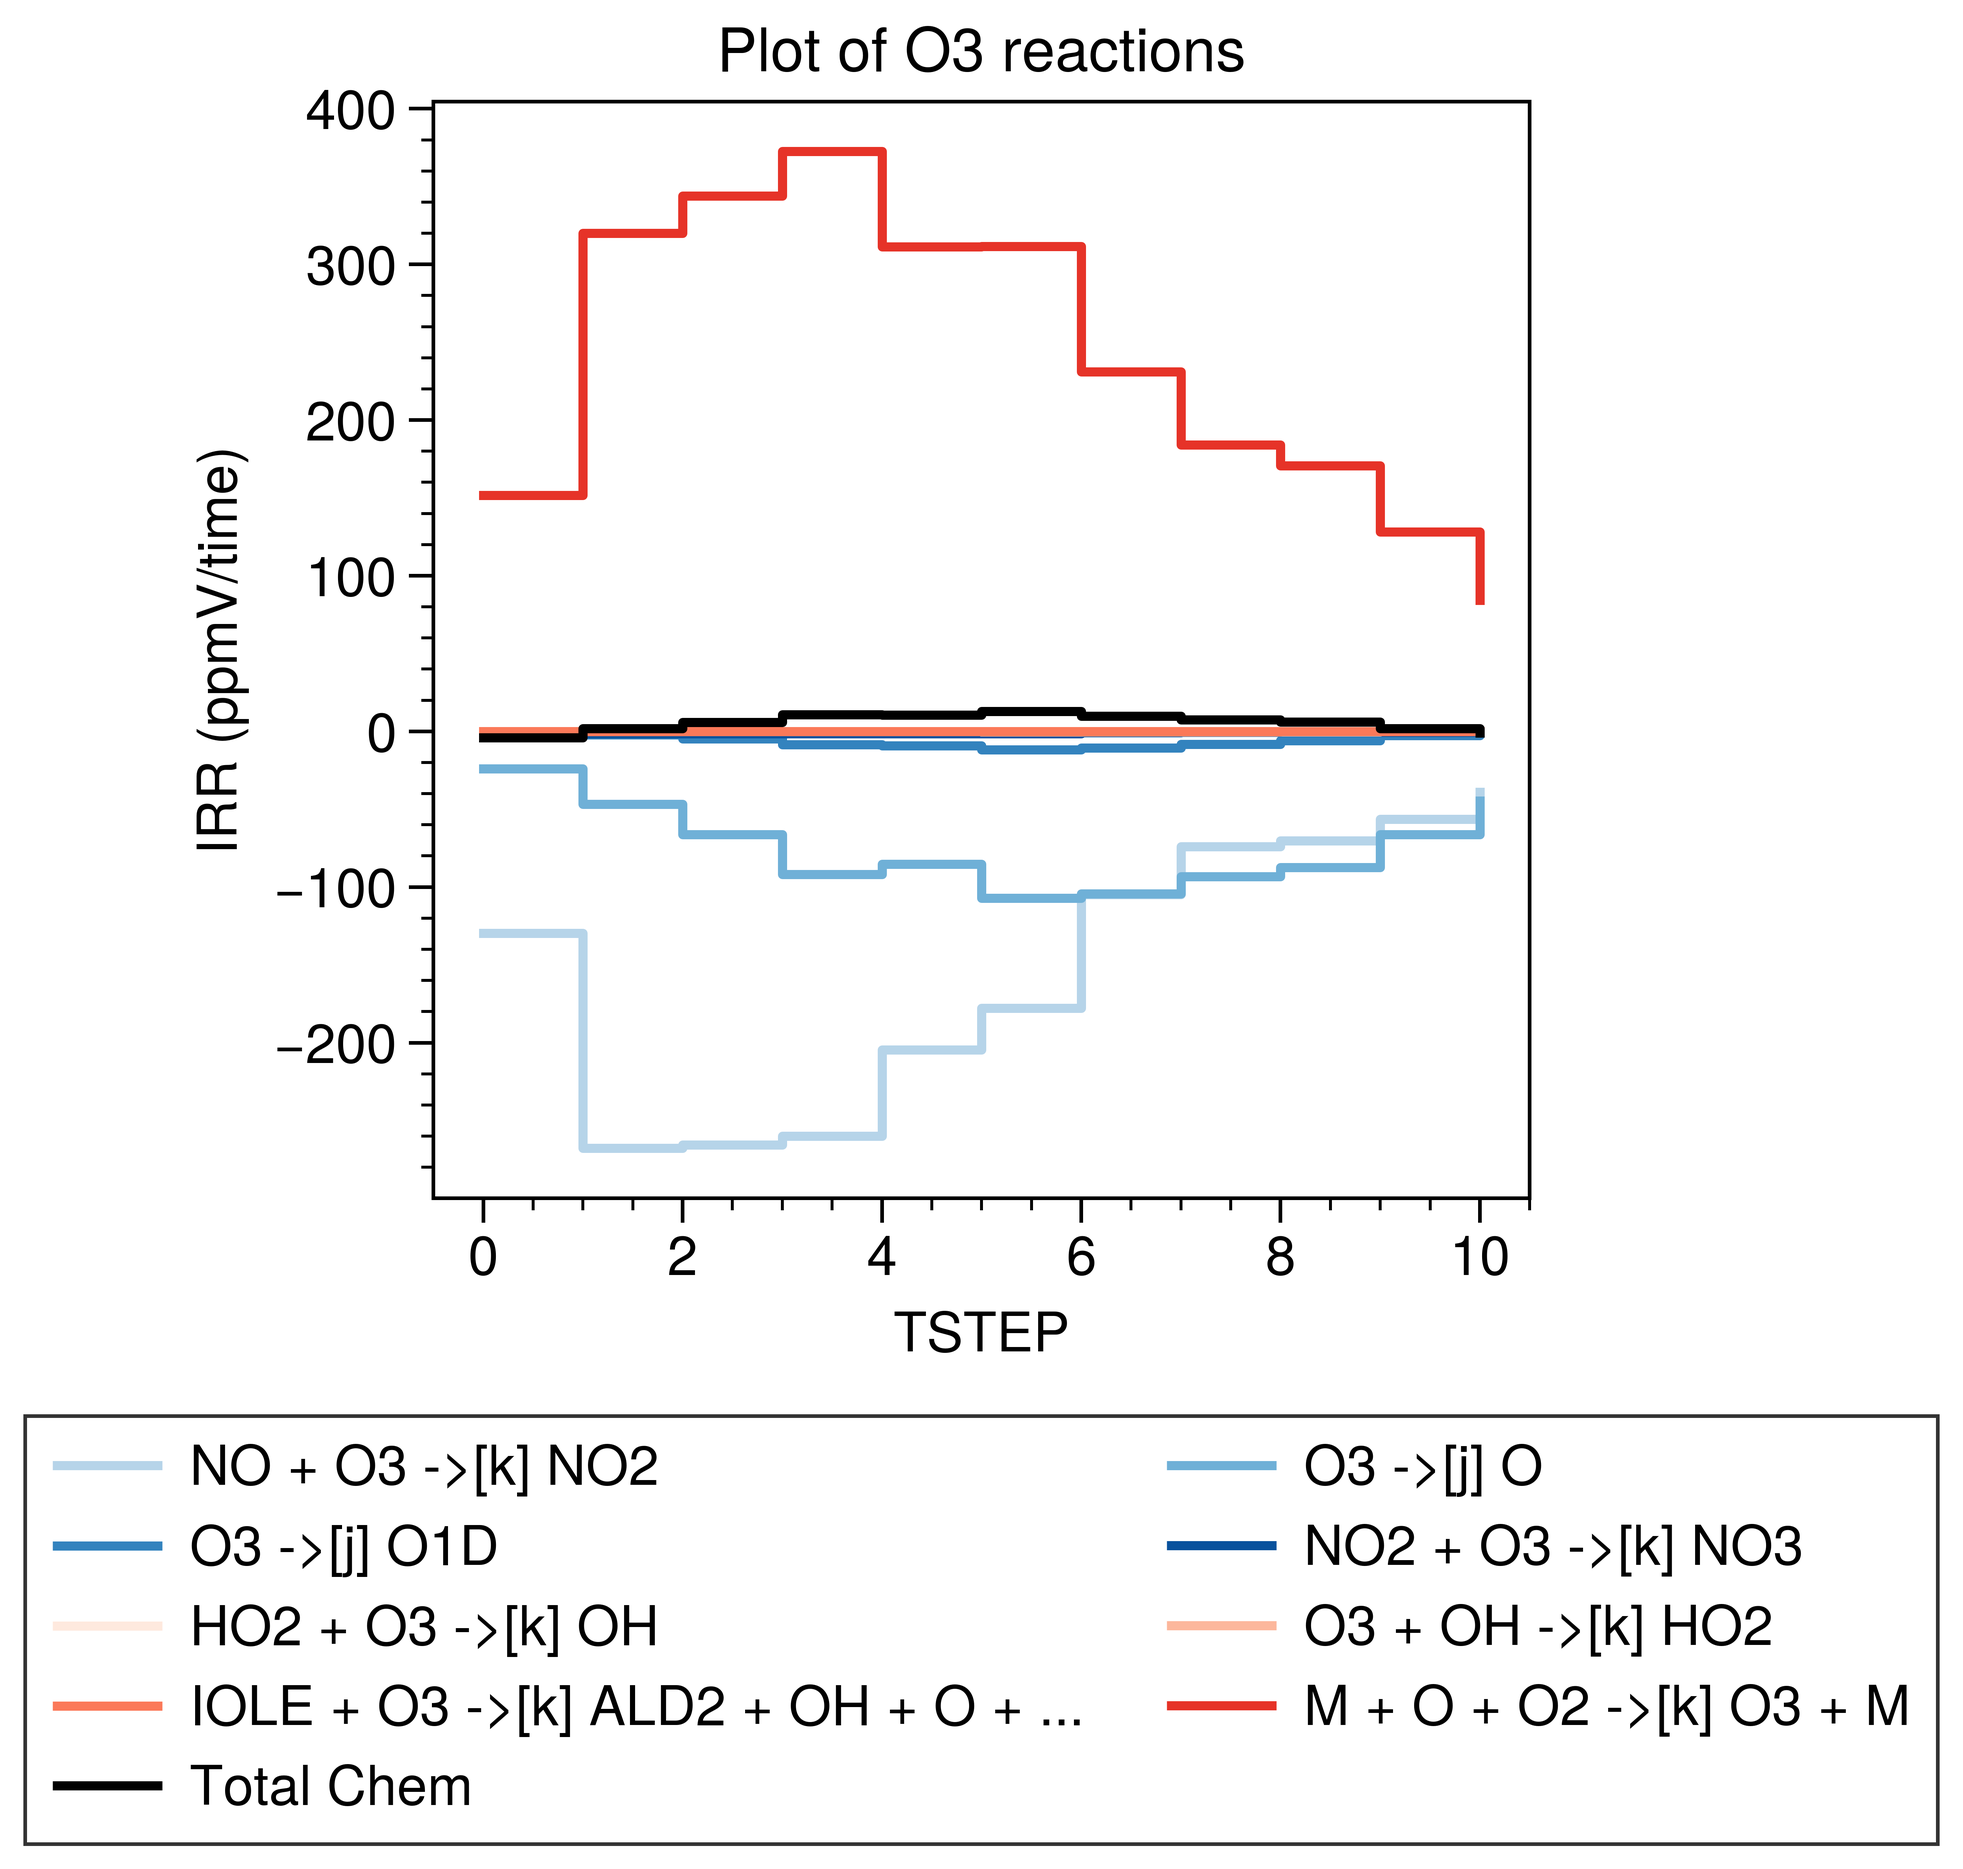
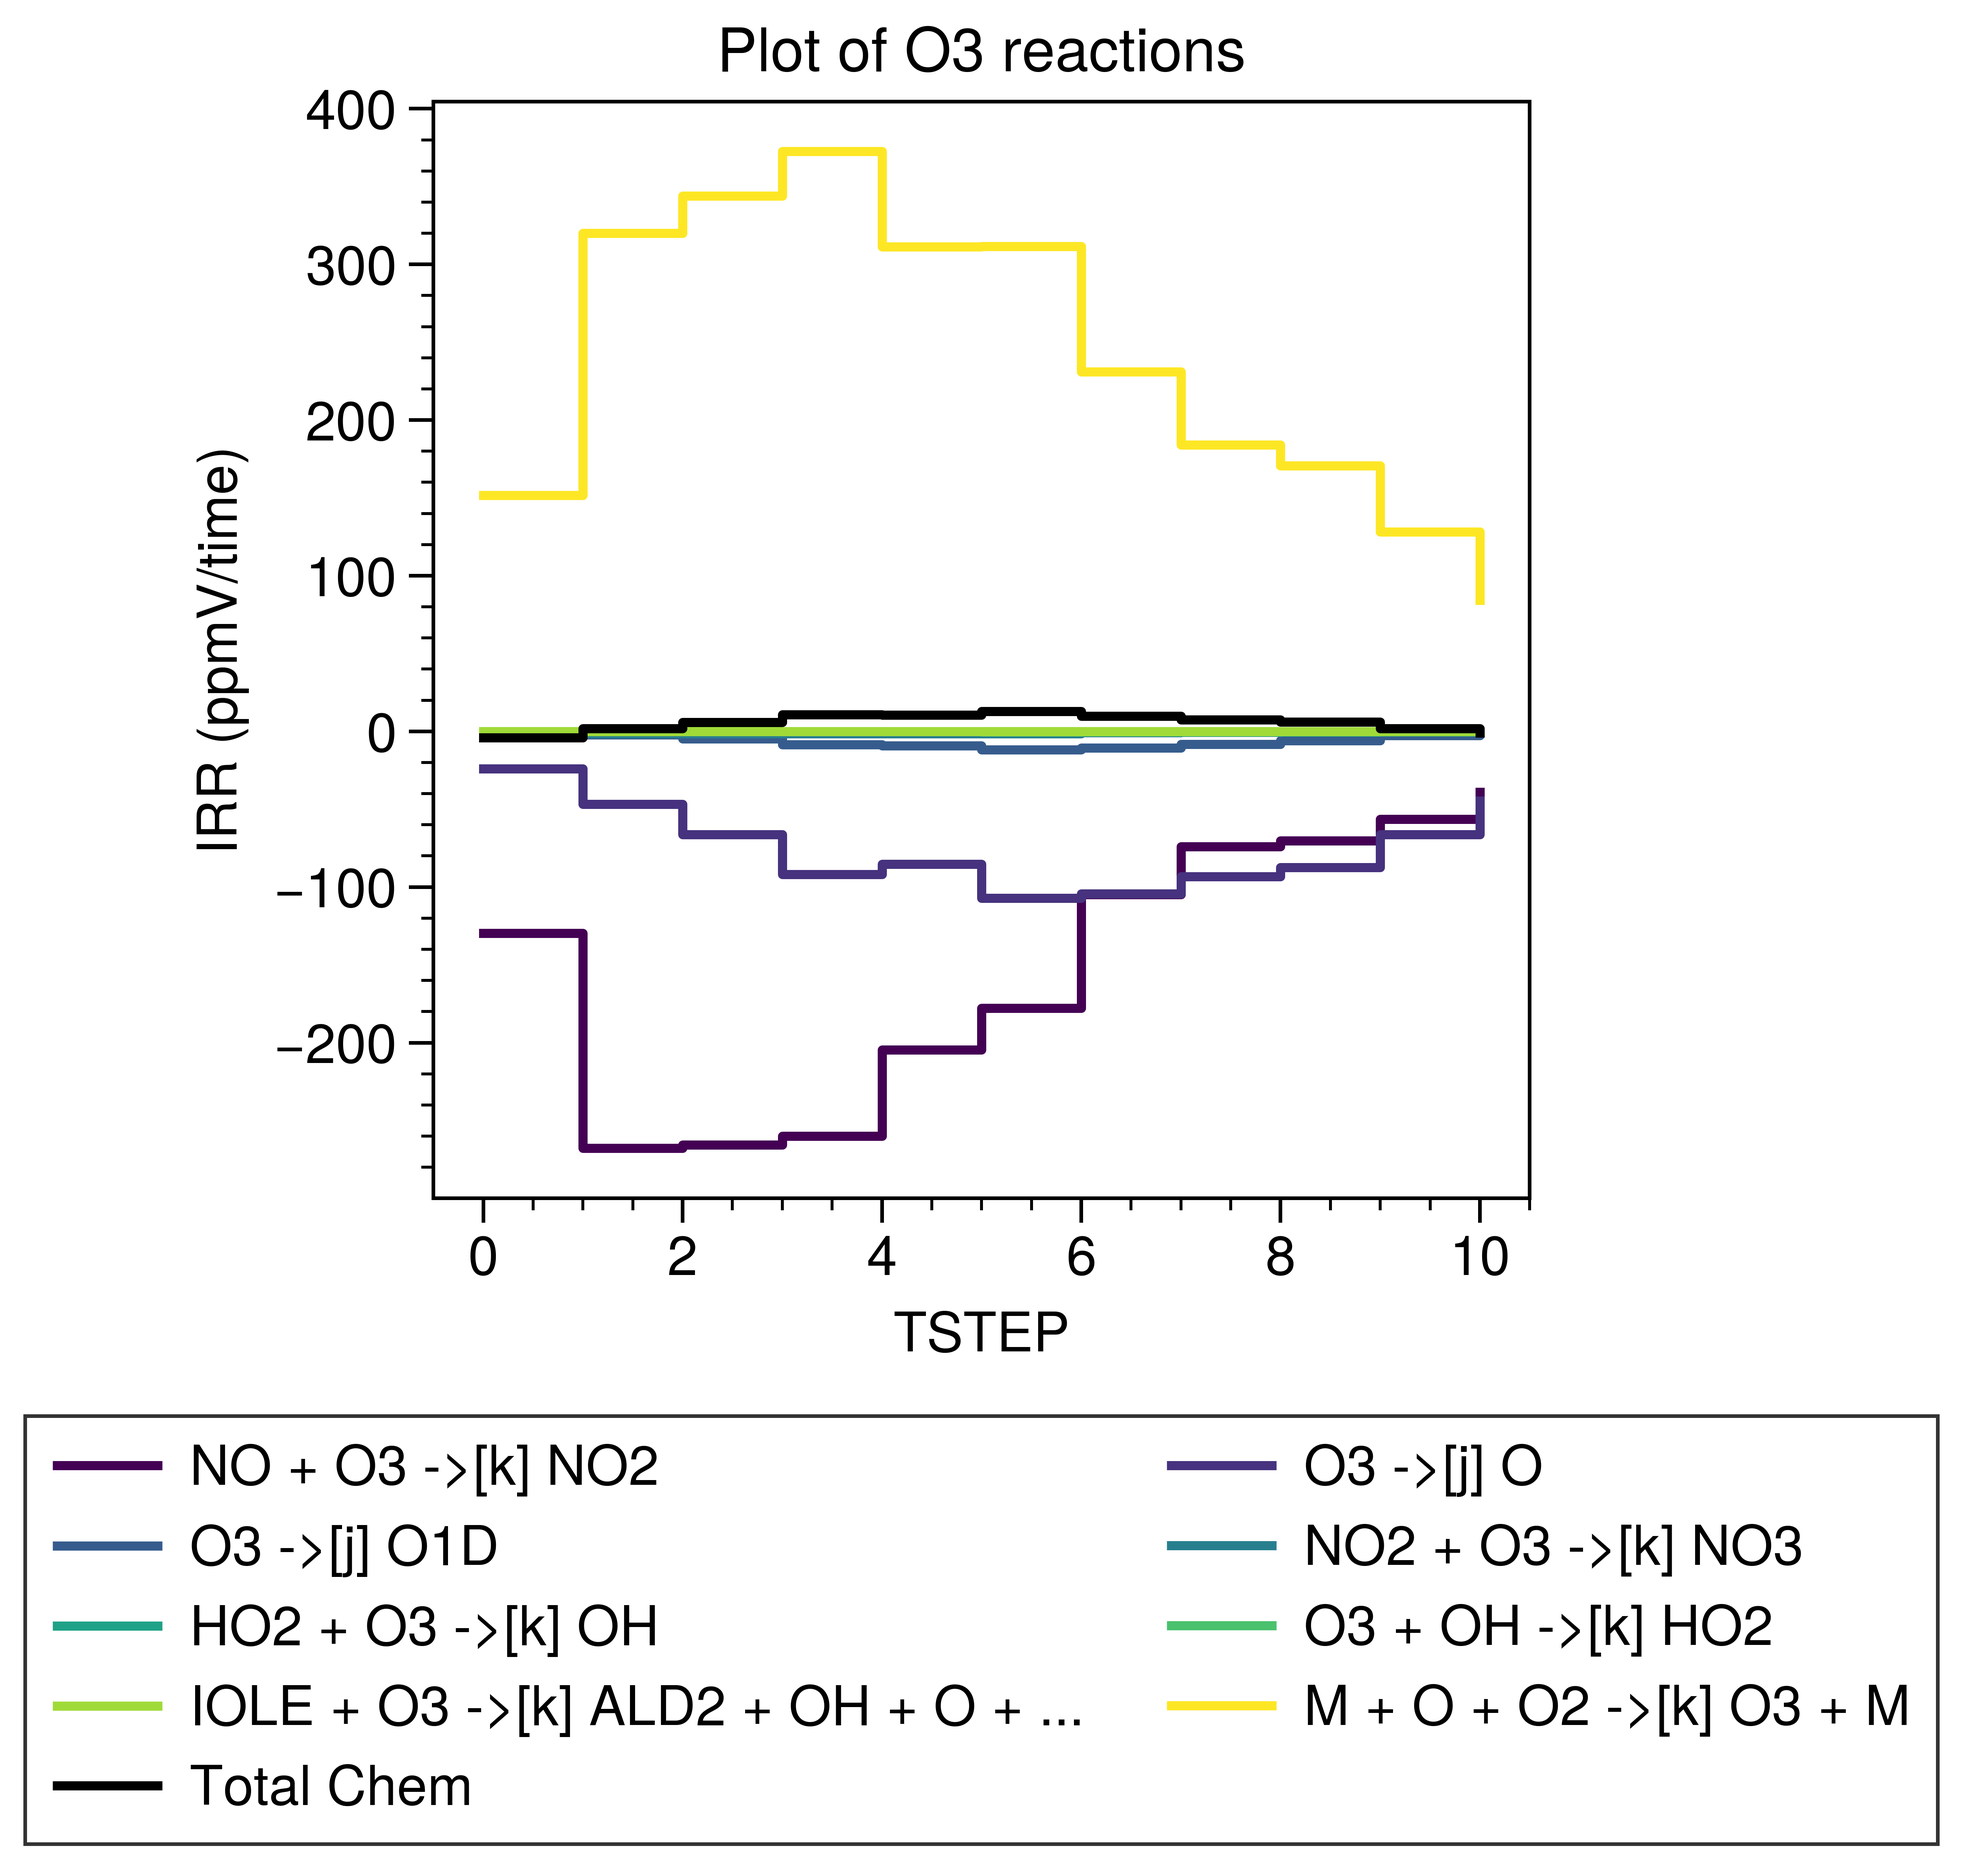
Updata post

diff --git a/content/sci-tech/2020-11/irr_wrfchem_1.md b/content/sci-tech/2020-11/irr_wrfchem_1.md
@@ -189,7 +189,9 @@ Attributes:
 
 ### Plot manually
 
-it's easy to plot all reactions with the script below by ourselves.
+The embedded plot function relies on the data structure strictly.
+
+It's better to plot all reactions by ourselves in case the structure of IRR files is different from the CAMX test data.
 
 ```
 python -m permm --mechanism cb05_camx test.mrg.nc --scripts plot_irr.py
@@ -226,9 +228,6 @@ irr_subset = da.sel(RXN=large_contrib)
 # sort again for plot by real values
 irr_subset = irr_subset.sortby(irr_subset.sum(dim='TSTEP'))
 
-# create cycle for plot
-cycle = plot.Cycle('blues', 'reds', 'oranges', 15, left=0.1)
-
 # generate labels based on RXN_**
 labels = []
 for rxn in irr_subset.RXN.values:
@@ -236,14 +235,23 @@ for rxn in irr_subset.RXN.values:
 
 # plot
 fig, axs = plot.subplots()
-# "post": https://matplotlib.org/3.1.1/gallery/lines_bars_and_markers/step_demo.html#sphx-glr-gallery-lines-bars-and-markers-step-demo-py
-lines = axs.step(irr_subset, where='post', label=labels, cycle=cycle)
+cmap = plot.Colormap('viridis')
+
+lines = []
+for i in range(irr_subset.sizes['RXN']):
+    # "step": https://matplotlib.org/3.1.1/gallery/lines_bars_and_markers/step_demo.html#sphx-glr-gallery-lines-bars-and-markers-step-demo-py
+    line = axs.step(irr_subset.TSTEP,
+                    irr_subset.isel(RXN=i),
+                    where='post',
+                    label=labels[i],
+                    color=cmap(i / (len(irr_subset.RXN)-1)),
+                    )
+    lines.append(line)
 
 # plot the total IRR
 total_line = axs.step(da.sum(dim='RXN'), where='post', label='Total Chem', color='k')
-
-axs.format(title='Plot of O3 reactions')
-fig.legend(lines+(total_line,), loc='b', ncols=2)
+axs.format(title='Plot of O3 reactions', grid=False)
+fig.legend(lines.append(total_line), loc='b', ncols=2)
 fig.savefig('irr_o3.png')
 ```
 
@@ -260,6 +268,7 @@ Note that we can present the exact values in the terminal by `print(irr_subset.t
 
 ## Version control
 
-| Version | Action | Time       |
-| ------- | ------ | ---------- |
-| 1.0     | Init   | 2020-11-30 |
+| Version | Action               | Time       |
+| ------- | -------------------- | ---------- |
+| 1.0     | Init                 | 2020-11-30 |
+| 1.1     | Update plot function | 2020-12-01 |
